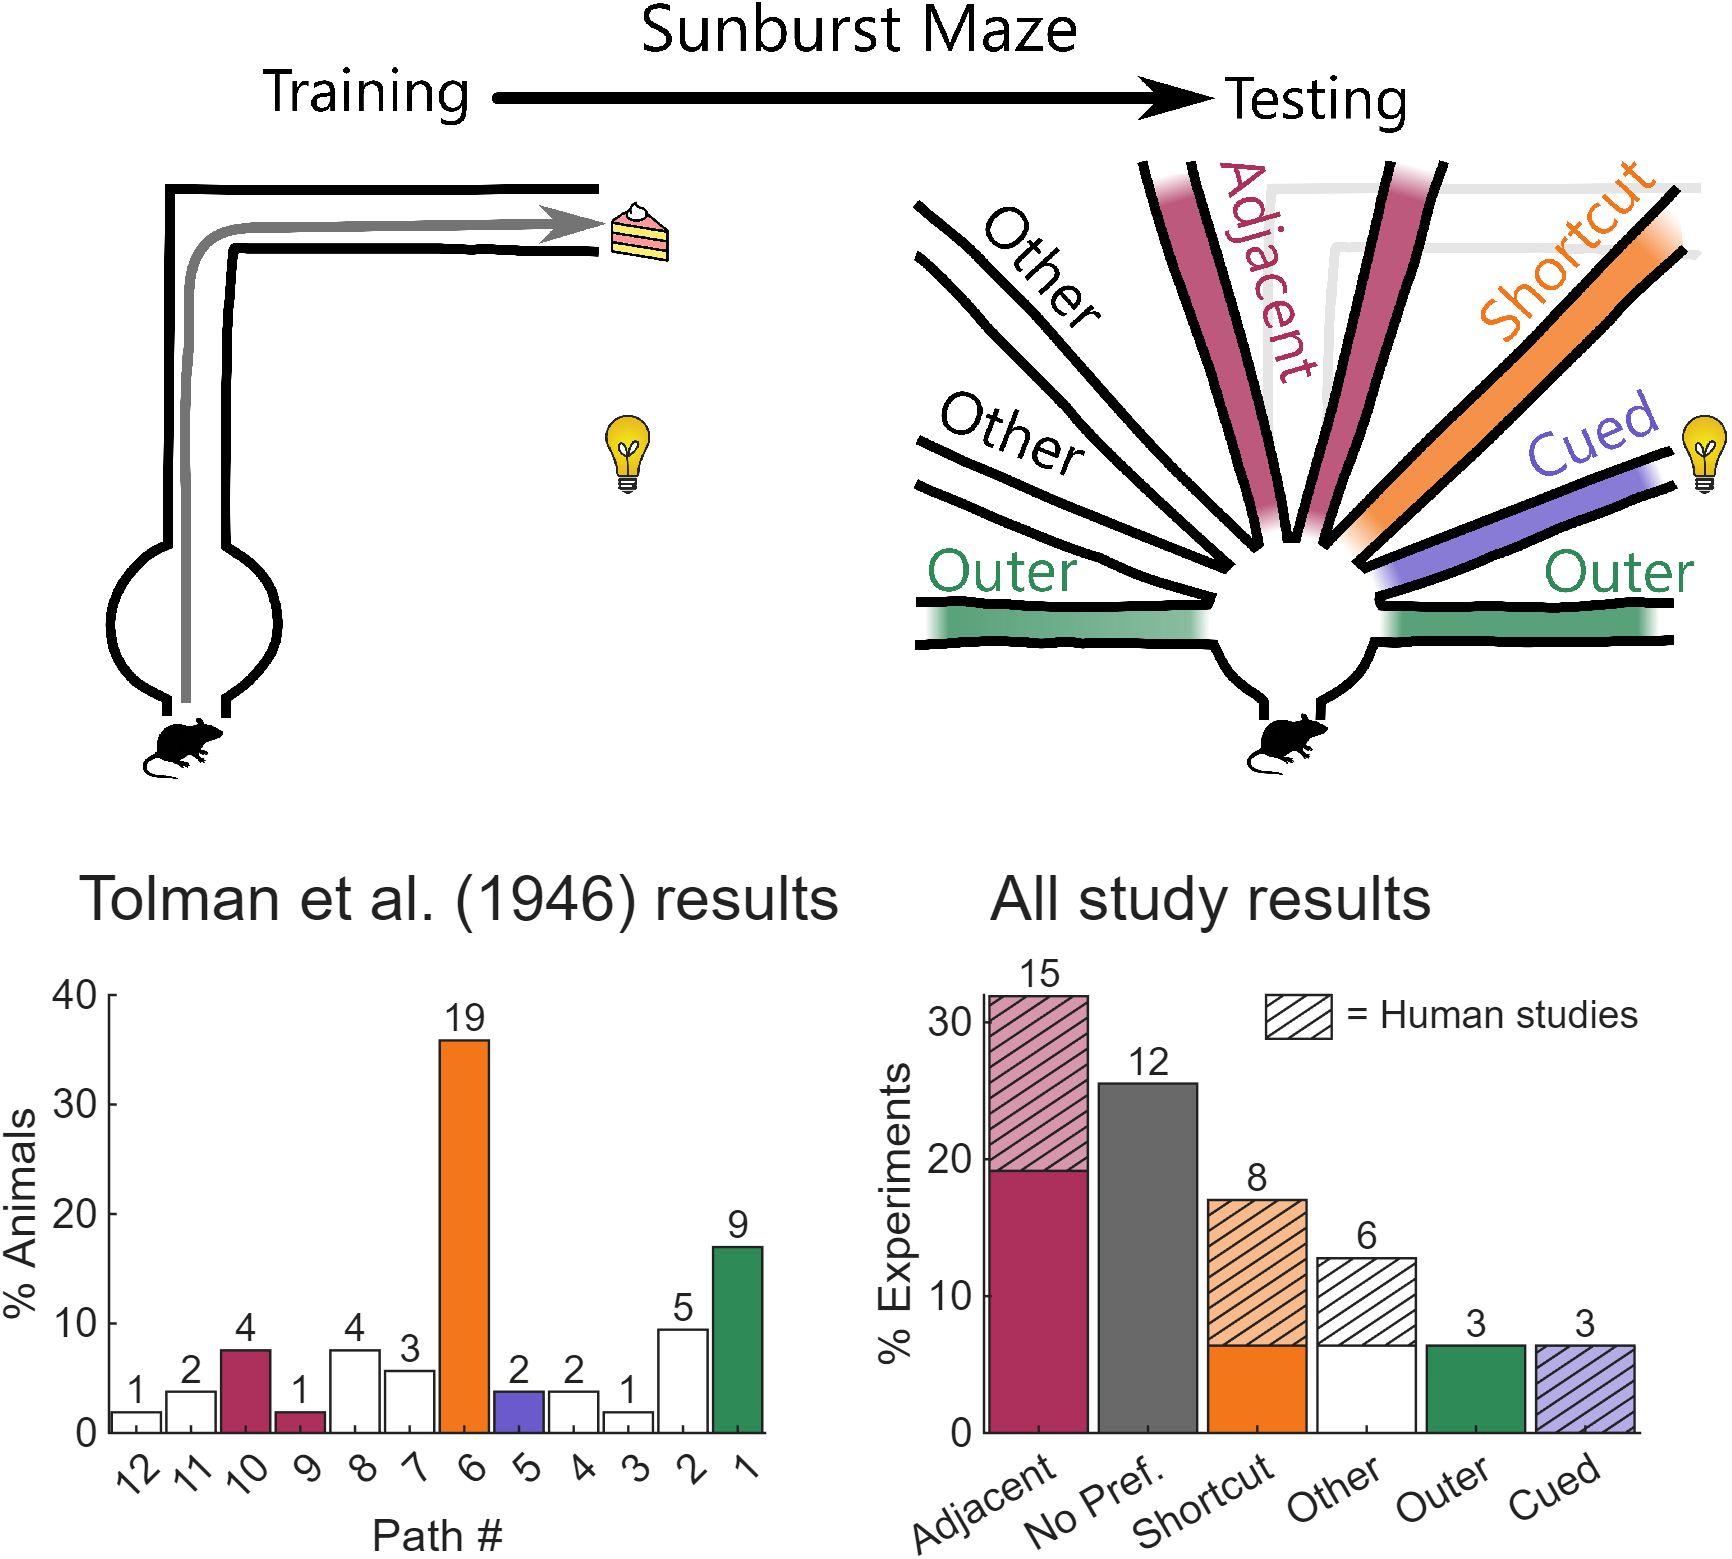
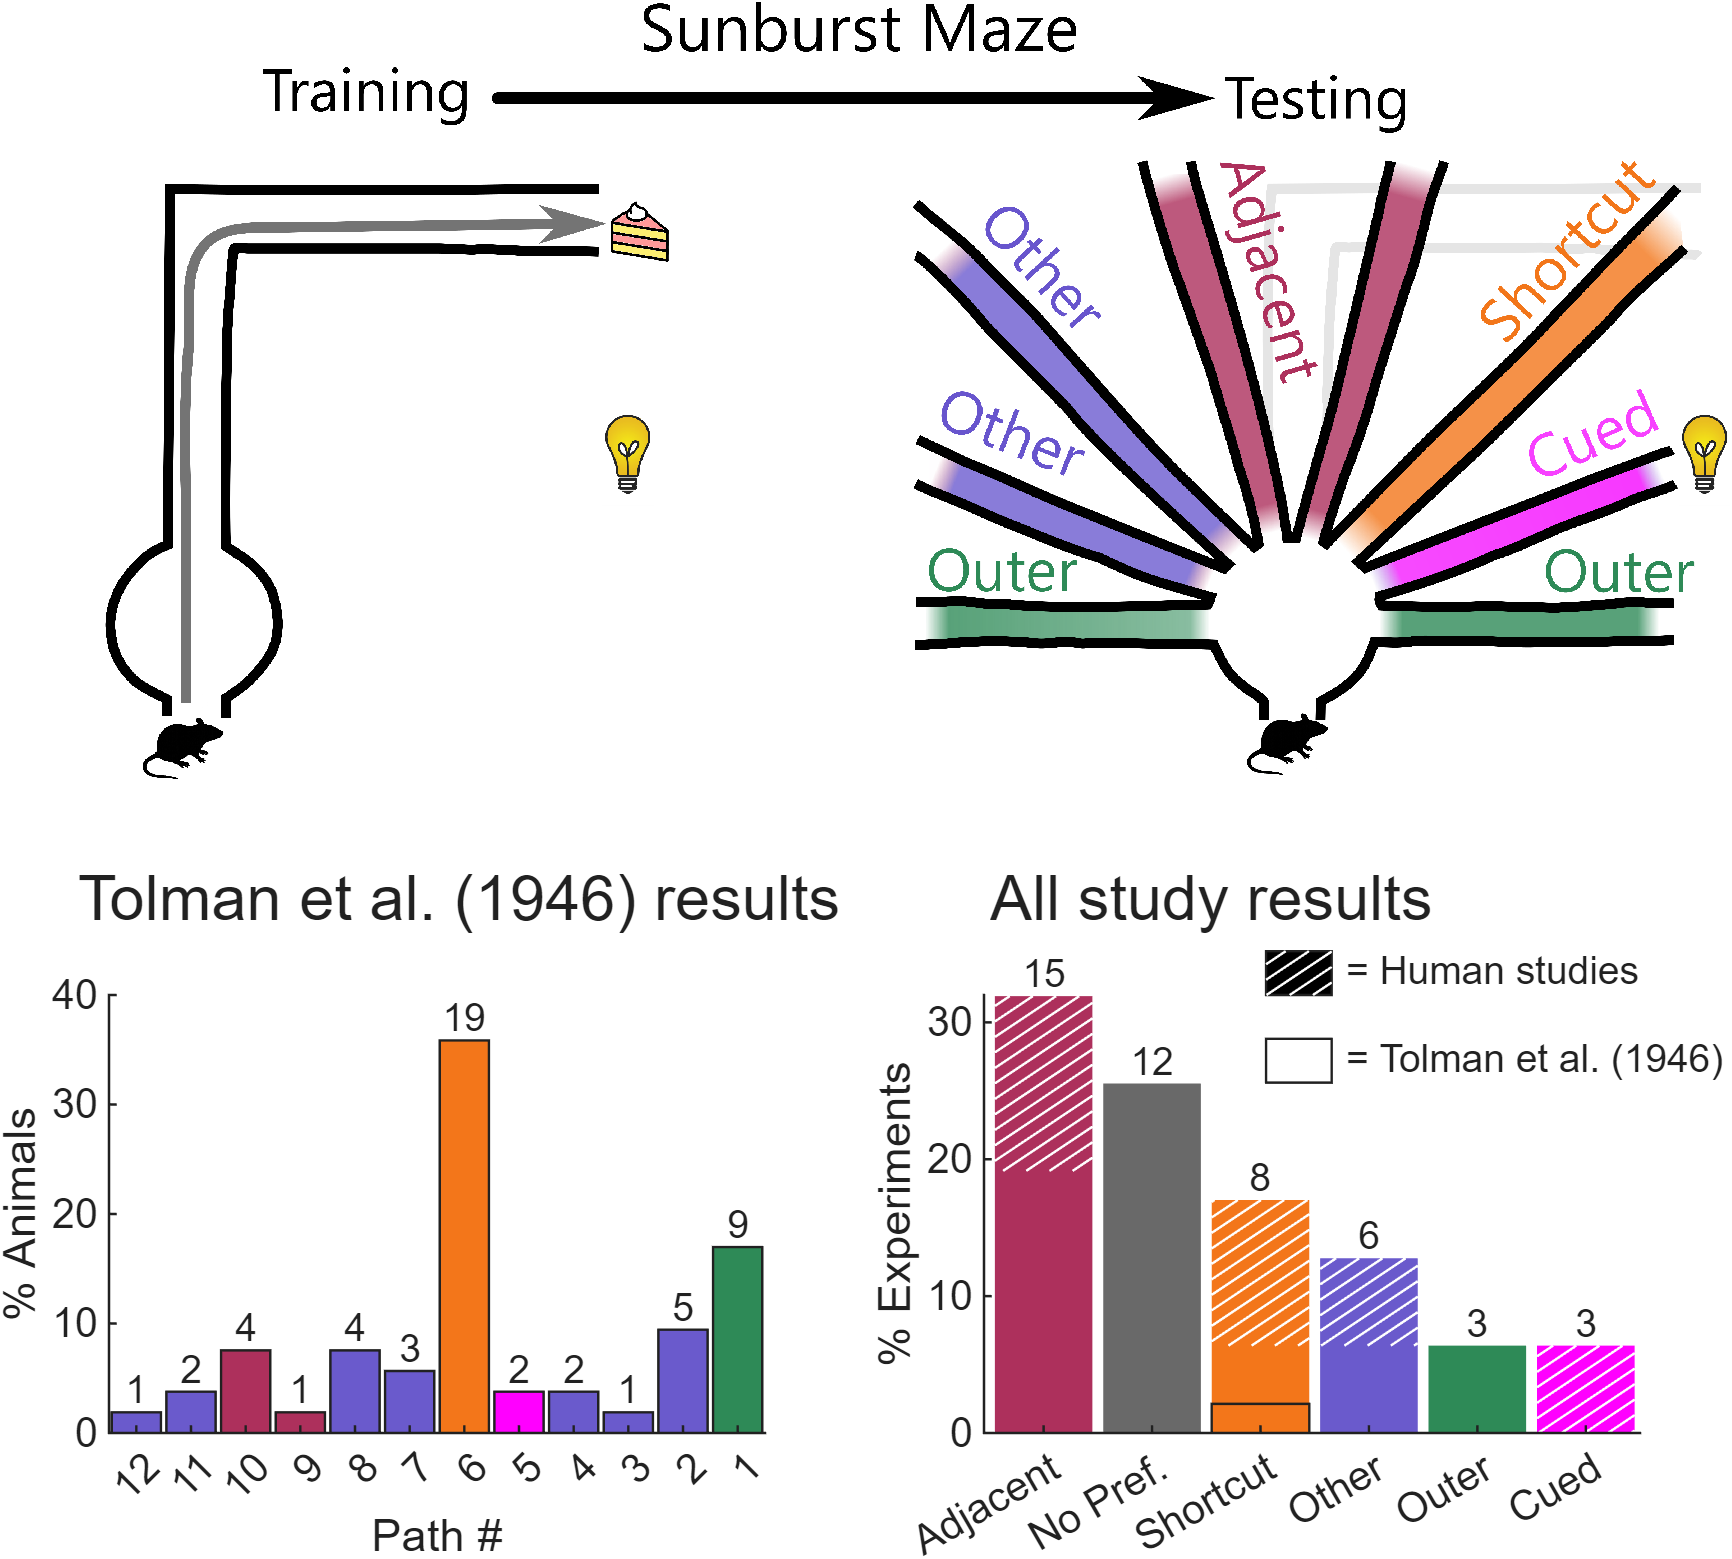
updates for peer review 1

diff --git a/code/TOL_fig_stats2.m b/code/TOL_fig_stats2.m
@@ -24,7 +24,7 @@ function TOL_fig_stats2(config,params,dat)
 
 %%%%%%%%%%%%%%%%%%%%%%%%%%%%%%%% FUNCTION BODY
     % Create figure
-    fig_now = figure('Units','pixels','Position',[50 50 210.*3 297.*3],'visible','on');
+    fig_now = figure('Units','pixels','Position',[50 50 210.*4 297.*3],'visible','on');
     set(gcf,'InvertHardCopy','off'); % gives the figure a grey background but means it will save white lines as white    
     set(gcf,'color','w'); % makes the background colour white
     fs = [14 10];
@@ -139,7 +139,7 @@ function TOL_fig_stats2(config,params,dat)
 
     xnow = 200;
     ax3 = axes('Units','pixels','Position',[ax2.Position(1)-49.5 ynow 50 150]);
-        ah = add_panel_title('c',sprintf('Wilson and Wilson (2018)'),'yoffset',0,'xoffset',0,'width',400,'fontsize',fs);
+        ah = add_panel_title('c',sprintf('Wilson and Wilson\n(2018)'),'yoffset',0,'xoffset',0,'width',400,'fontsize',fs);
 
         % p1 = stem(1:3,d(:,2),"filled",'Color','r');
         p2 = bar(1:3,d(:,2),0.7,'r');
@@ -172,10 +172,10 @@ function TOL_fig_stats2(config,params,dat)
 % a “place” or “kinesthetic response” strategy indicated no significant difference in 
 % the means t(31) = −1.0, p = .33. Note that due to our small sample size, we could not 
 % further divide by gender for the T-Test analysis.
-    xnow = 50;
-    ynow = ynow-240;
+    xnow = xnow+ax2.Position(3)+hbuff+230;
+    ynow = ynow;
     ax3 = axes('Units','pixels','Position',[xnow ynow 110 150]);
-        ah = add_panel_title('d',sprintf('Doner et al. (2023)'),'yoffset',0,'xoffset',0,'width',400,'fontsize',fs);
+        ah = add_panel_title('d',sprintf('Doner et al.\n(2023)'),'yoffset',0,'xoffset',0,'width',400,'fontsize',fs);
 
         x = 1:2;
         y = [3.2 3.7];
@@ -190,13 +190,13 @@ function TOL_fig_stats2(config,params,dat)
         box off;
         ax3.XLim = [0.5 2.5];
         ax3.YLim(1) = 0;
-        text(0,1,sprintf('t(%d) = %.1f, {\\itp} = %s',31,-1,strrep(num2str(0.33,2),'0.','.')),'VerticalAlignment','bottom','HorizontalAlignment','left','Units','normalized','FontSize',9)
+        text(0,0,sprintf('t(%d) = %.1f, {\\itp} = %s',31,-1,strrep(num2str(0.33,2),'0.','.')),'VerticalAlignment','bottom','HorizontalAlignment','left','Units','normalized','FontSize',9)
 
 %%%%%%%%%%%%%%%% Harley
-    xnow = xnow+ax3.Position(3)+hbuff+20;
-    ynow = ynow;
-    ax3 = axes('Units','pixels','Position',[xnow ynow 100 150]);
-        ah = add_panel_title('e',sprintf('Harley (1979)'),'yoffset',0,'xoffset',0,'width',400,'fontsize',fs);
+    xnow = 50;
+    ynow = ynow-240;
+    ax3 = axes('Units','pixels','Position',[xnow ynow 90 140]);
+        ah = add_panel_title('e',sprintf('Harley (1979)'),'yoffset',10,'xoffset',0,'width',400,'fontsize',fs);
 
         idx1 = ismember(dat.experiment,{'Harley_1979'}) & ismember(dat.group,{'control'}) & ismember(dat.test,{'test1'});
         idx2 = ismember(dat.experiment,{'Harley_1979'}) & ismember(dat.group,{'hippocampal'}) & ismember(dat.test,{'test1'});
@@ -263,7 +263,7 @@ function TOL_fig_stats2(config,params,dat)
 
         % res = compute2propXtest(sum(d1,"all"), p1s, sum(d2,"all"), p2s);        
         % text(0,1,res.text_result,'VerticalAlignment','top','HorizontalAlignment','left','Units','normalized','FontSize',8)
-        % text(0.5,1,'Lesion pre-training','VerticalAlignment','bottom','HorizontalAlignment','center','Units','normalized','FontSize',9)
+        text(0.5,1.07,'Acquisition','VerticalAlignment','bottom','HorizontalAlignment','center','Units','normalized','FontSize',9)
 
     ax3r = axes('Units','pixels','Position',[xnow+ax3.Position(3)+hbuff ax3.Position(2:4)]);
         % ah = add_panel_title('e',sprintf('Harley (1979)'),'yoffset',0,'xoffset',0,'width',400,'fontsize',fs);
@@ -334,10 +334,11 @@ function TOL_fig_stats2(config,params,dat)
         % res = compute2propXtest(sum(d1,"all"), p1s, sum(d2,"all"), p2s);        
         % text(0,1,res.text_result,'VerticalAlignment','top','HorizontalAlignment','left','Units','normalized','FontSize',8)
         % text(0.5,1,'Lesion post-training','VerticalAlignment','bottom','HorizontalAlignment','center','Units','normalized','FontSize',9)
+        text(0.5,1.07,'Retention','VerticalAlignment','bottom','HorizontalAlignment','center','Units','normalized','FontSize',9)
 
 %%%%%%%%%%%%%%%% Muir and Taube
-    xnow = 50;
-    ynow = ynow-250;
+    xnow = ax3.Position(1)+280;
+    ynow = ynow;
     ax4 = axes('Units','pixels','Position',[xnow ynow 130 150]);
         ah = add_panel_title('f',sprintf('Muir and Taube (2004)'),'yoffset',0,'xoffset',0,'width',400,'fontsize',fs);
 
@@ -374,7 +375,7 @@ function TOL_fig_stats2(config,params,dat)
 
 %%%%%%%%%%%%%%%% Brights vs Dulls
     xnow = xnow+ax4.Position(3)+hbuff+10;
-    ax5 = axes('Units','pixels','Position',[xnow ynow 110 150]);
+    ax5 = axes('Units','pixels','Position',[xnow ynow 50 150]);
         ah = add_panel_title('g',sprintf('Effect of distal cues'),'yoffset',0,'xoffset',0,'width',400,'fontsize',fs);
 
         idx = [find( ismember(dat.experiment,'doner_et_al_2023') & ismember(dat.group,'stable_light') )...
@@ -490,7 +491,7 @@ function TOL_fig_stats2(config,params,dat)
                 imwrite(raster, raster_map, fname); % fig_file is the path to the image
             end            
         else
-            exportgraphics(gcf,fname,'BackgroundColor',[1 1 1],'Colorspace','rgb','Resolution',350);  
+            exportgraphics(gcf,fname,'BackgroundColor',[1 1 1],'Colorspace','rgb','Resolution',params.res);  
         end
         close(gcf);   
     end

diff --git a/code/TOL_fig_ga.m b/code/TOL_fig_ga.m
@@ -159,8 +159,10 @@ function TOL_fig_ga(config,params,dat)
         y = y0./sum(y0,"all",'omitmissing').*100;
         
         b = bar(x,y,0.9,'w','stacked');
+        % hatchfill2(b,'single','HatchAngle',45,'HatchColor',[.5 .5 .5]);
         b.FaceColor = 'flat';
-        b.CData = ones(size(b.CData));
+        
+        b.CData = ones(size(b.CData)) .* params.other_color;
         b.CData(6,:) = params.short_color;
         b.CData(9,:) = params.adjacent_color;
         b.CData(10,:) = params.adjacent_color;
@@ -216,20 +218,20 @@ function TOL_fig_ga(config,params,dat)
         coef_animal = coef_animal(i);
         coef_human = coef_human(i);
 
-        b = bar(x,[coef_animal(:) coef_human(:)],0.9,'k','stacked');
+        b = bar(x,[coef_animal(:) coef_human(:)],0.9,'k','stacked','EdgeColor','none');
 
         b(1).FaceColor = 'flat';
         b(2).FaceColor = 'flat';
-        cols = [params.short_color;params.adjacent_color;params.outer_color;params.light_color;rgb('White');rgb('DimGray')];
+        cols = [params.short_color;params.adjacent_color;params.outer_color;params.light_color;params.other_color;params.nopref_color];
         b(1).CData = cols(i,:);
         b(2).CData = cols(i,:);
         b(1).FaceAlpha = 1.0;
-        b(2).FaceAlpha = 0.5;
-        hatchfill2(b(2),'single');
+        b(2).FaceAlpha = 1;
+        hatchfill2(b(2),'single','Clipping','off','HatchColor','w');
 
         % additional axis settings
         ax = gca;
-        ax.XLim = [0.5 6.5];
+        ax.XLim = [0.45 6.5];
         ax.XTickLabel = l;
         ylabel('% Experiments')
         box off
@@ -246,10 +248,34 @@ function TOL_fig_ga(config,params,dat)
         fx = ux*f;
         fy = uy*f;
         bx = ux*47;
-        by = -uy*0;
-        px = patch([ax.XLim(2)-fx ax.XLim(2)-fx ax.XLim(2) ax.XLim(2)]-bx,[ax.YLim(2)-fy ax.YLim(2) ax.YLim(2) ax.YLim(2)-fy]-by,'k','FaceColor','none');
-        hatchfill2(px,'single');
-        text(0.55,1.0,'= Human studies','FontSize',8,'HorizontalAlignment','left','VerticalAlignment','top','Units','normalized');
+        by = -uy*10;
+        px = patch([ax.XLim(2)-fx ax.XLim(2)-fx ax.XLim(2) ax.XLim(2)]-bx,[ax.YLim(2)-fy ax.YLim(2) ax.YLim(2) ax.YLim(2)-fy]-by,'k','FaceColor','k','Clipping','off');
+        h = hatchfill2(px,'single','Clipping','off','HatchColor','w');
+        set(h,'Clipping','off');
+        % set(h,"Color",'w')
+        text(0.55,1.1,'= Human studies','FontSize',8,'HorizontalAlignment','left','VerticalAlignment','top','Units','normalized');
+
+        %% add label for tolman
+        hold on;
+        perce = 1/47*100;
+        pp = patch([2.55 2.55 3.45 3.45],[0 perce perce 0],'k','FaceColor','none');
+        % h = hatchfill2(pp,'single','HatchAngle',-45,'HatchColor',[.5 .5 .5]);
+        % set(h,'Color',[.5 .5 .5]);
+
+        f = 10;
+        fx = ux*f;
+        fy = uy*f;
+        bx = ux*47;
+        by = -uy*-10;
+        px = patch([ax.XLim(2)-fx ax.XLim(2)-fx ax.XLim(2) ax.XLim(2)]-bx,[ax.YLim(2)-fy ax.YLim(2) ax.YLim(2) ax.YLim(2)-fy]-by,'k','FaceColor','none','Clipping','off');
+        % h = hatchfill2(px,'single','HatchAngle',-45,'HatchColor',[.5 .5 .5]);
+        % set(h,'Color',[.5 .5 .5]);
+        text(0.55,0.9,'= Tolman et al. (1946)','FontSize',8,'HorizontalAlignment','left','VerticalAlignment','top','Units','normalized');
+
+
+
+
+
 
 % return
 % keyboard
@@ -269,7 +295,7 @@ function TOL_fig_ga(config,params,dat)
                 imwrite(raster, raster_map, fname); % fig_file is the path to the image
             end            
         else
-            exportgraphics(gcf,fname,'BackgroundColor',[1 1 1],'Colorspace','rgb','Resolution',350);  
+            exportgraphics(gcf,fname,'BackgroundColor',[1 1 1],'Colorspace','rgb','Resolution',params.res);  
         end
         close(gcf);   
     end

diff --git a/code/TOL_main.m b/code/TOL_main.m
@@ -63,9 +63,11 @@ function TOL_main
     params.choice_marker = 'd'; % marker to use showing % choices (m1-m6 is used below instead)  
     params.linestyle = '-'; % linestyle when plotting choice %   
     params.adjacent_color = params.cols(60,:); % adjacent path color in plots
-    params.light_color = rgb('SlateBlue');
+    params.light_color = rgb('Fuchsia');
     params.outer_color = rgb('SeaGreen');
-    
+    params.other_color = rgb('SlateBlue');
+    params.nopref_color = rgb('DimGray');
+
     params.chance_color = [.5 .5 .5; .5 .5 .5]; % chance line color
     params.shading_alpha = 0.2; % transparency of adjacent/shortcut shaded areas
     params.c1 = rgb('Black'); % color 1
@@ -81,6 +83,7 @@ function TOL_main
     params.m5 = 'p'; % marker 5
     params.m6 = 'v'; % marker 6
     params.style_offset = 0; % used to offset color/style used
+    params.res = 350;
 
     % params.short_color = rgb('Blue'); % shortcut path color in plots
     % params.adjacent_color = rgb('Gold'); % adjacent path color in plots
@@ -100,7 +103,7 @@ function TOL_main
     plot_opts.plot_gentry1947       = 0; % TOL_fig_gentry1947   % Fig S2 Gentry et al. (1947) & Birch and Korn (1958)
     plot_opts.plot_dawson1972       = 0; % TOL_fig_dawson1972   % Fig S3 Dawson (1972)    
     plot_opts.plot_harley1979       = 0; % TOL_fig_harley1979   % Fig S4 Harley (1979)
-    plot_opts.plot_wilson2018       = 0; % TOL_fig_wilson2018   % Fig S5 Wilson and Wilson (2018) & Doner et al. (2023)
+    plot_opts.plot_wilson2018       = 1; % TOL_fig_wilson2018   % Fig S5 Wilson and Wilson (2018) & Doner et al. (2023)
     plot_opts.plot_young1967        = 0; % TOL_fig_young1967    % Fig S6 Young et al. (1967)
     plot_opts.plot_ritchie1948      = 0; % TOL_fig_ritchie1948  % Fig S7 Ritchie (1948)
     plot_opts.plot_kendler1947      = 0; % TOL_fig_kendler1947  % Fig S8 Kendler et al. (1947; 1948)

diff --git a/code/TOL_fig_ritchie1948.m b/code/TOL_fig_ritchie1948.m
@@ -126,7 +126,7 @@ function TOL_fig_ritchie1948(config,params,dat)
                 imwrite(raster, raster_map, fname); % fig_file is the path to the image
             end            
         else
-            exportgraphics(gcf,fname,'BackgroundColor',[1 1 1],'Colorspace','rgb','Resolution',350);  
+            exportgraphics(gcf,fname,'BackgroundColor',[1 1 1],'Colorspace','rgb','Resolution',params.res);  
         end
         close(gcf);   
     end

diff --git a/code/TOL_fig_dawson1972.m b/code/TOL_fig_dawson1972.m
@@ -441,7 +441,7 @@ function TOL_fig_gentry1948(config,params,dat)
                 imwrite(raster, raster_map, fname); % fig_file is the path to the image
             end            
         else
-            exportgraphics(gcf,fname,'BackgroundColor',[1 1 1],'Colorspace','rgb','Resolution',350);  
+            exportgraphics(gcf,fname,'BackgroundColor',[1 1 1],'Colorspace','rgb','Resolution',params.res);  
         end
         close(gcf);   
     end

diff --git a/code/TOL_fig_gentry1947.m b/code/TOL_fig_gentry1947.m
@@ -246,7 +246,7 @@ function TOL_fig_gentry1947(config,params,dat)
                 imwrite(raster, raster_map, fname); % fig_file is the path to the image
             end            
         else
-            exportgraphics(gcf,fname,'BackgroundColor',[1 1 1],'Colorspace','rgb','Resolution',350);  
+            exportgraphics(gcf,fname,'BackgroundColor',[1 1 1],'Colorspace','rgb','Resolution',params.res);  
         end
         close(gcf);   
     end

diff --git a/code/TOL_fig_harley1979.m b/code/TOL_fig_harley1979.m
@@ -178,7 +178,7 @@ function TOL_fig_harley1979(config,params,dat)
                 imwrite(raster, raster_map, fname); % fig_file is the path to the image
             end            
         else
-            exportgraphics(gcf,fname,'BackgroundColor',[1 1 1],'Colorspace','rgb','Resolution',350);  
+            exportgraphics(gcf,fname,'BackgroundColor',[1 1 1],'Colorspace','rgb','Resolution',params.res);  
         end
         close(gcf);   
     end

diff --git a/code/TOL_fig_tolman1946.m b/code/TOL_fig_tolman1946.m
@@ -147,7 +147,7 @@ function TOL_fig_tolman1946(config,params,dat)
                 imwrite(raster, raster_map, fname); % fig_file is the path to the image
             end            
         else
-            exportgraphics(gcf,fname,'BackgroundColor',[1 1 1],'Colorspace','rgb','Resolution',350);  
+            exportgraphics(gcf,fname,'BackgroundColor',[1 1 1],'Colorspace','rgb','Resolution',params.res);  
         end
         close(gcf);   
     end

diff --git a/code/TOL_fig_wilson2018.m b/code/TOL_fig_wilson2018.m
@@ -186,7 +186,7 @@ function TOL_fig_wilson2018(config,params,dat)
                 imwrite(raster, raster_map, fname); % fig_file is the path to the image
             end            
         else
-            exportgraphics(gcf,fname,'BackgroundColor',[1 1 1],'Colorspace','rgb','Resolution',350);  
+            exportgraphics(gcf,fname,'BackgroundColor',[1 1 1],'Colorspace','rgb','Resolution',params.res);  
         end
         close(gcf);   
     end

diff --git a/code/TOL_fig_young1967.m b/code/TOL_fig_young1967.m
@@ -144,7 +144,7 @@ function TOL_fig_young1967(config,params,dat)
                 imwrite(raster, raster_map, fname); % fig_file is the path to the image
             end            
         else
-            exportgraphics(gcf,fname,'BackgroundColor',[1 1 1],'Colorspace','rgb','Resolution',350);  
+            exportgraphics(gcf,fname,'BackgroundColor',[1 1 1],'Colorspace','rgb','Resolution',params.res);  
         end
         close(gcf);   
     end

diff --git a/code/TOL_fig_gentry1948.m b/code/TOL_fig_gentry1948.m
@@ -99,7 +99,7 @@ function TOL_fig_gentry1948(config,params,dat)
                 imwrite(raster, raster_map, fname); % fig_file is the path to the image
             end            
         else
-            exportgraphics(gcf,fname,'BackgroundColor',[1 1 1],'Colorspace','rgb','Resolution',350);  
+            exportgraphics(gcf,fname,'BackgroundColor',[1 1 1],'Colorspace','rgb','Resolution',params.res);  
         end
         close(gcf);   
     end

diff --git a/code/TOL_fig_muir2004.m b/code/TOL_fig_muir2004.m
@@ -127,7 +127,7 @@ function TOL_fig_muir2004(config,params,dat)
                 imwrite(raster, raster_map, fname); % fig_file is the path to the image
             end            
         else
-            exportgraphics(gcf,fname,'BackgroundColor',[1 1 1],'Colorspace','rgb','Resolution',350);  
+            exportgraphics(gcf,fname,'BackgroundColor',[1 1 1],'Colorspace','rgb','Resolution',params.res);  
         end
         close(gcf);   
     end
